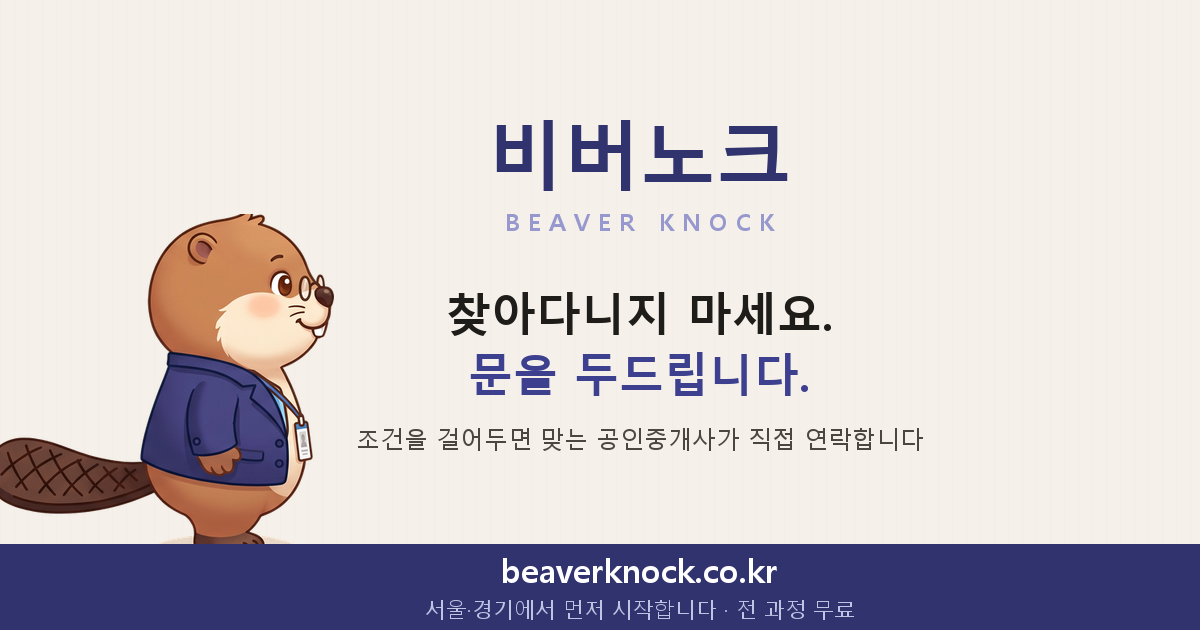
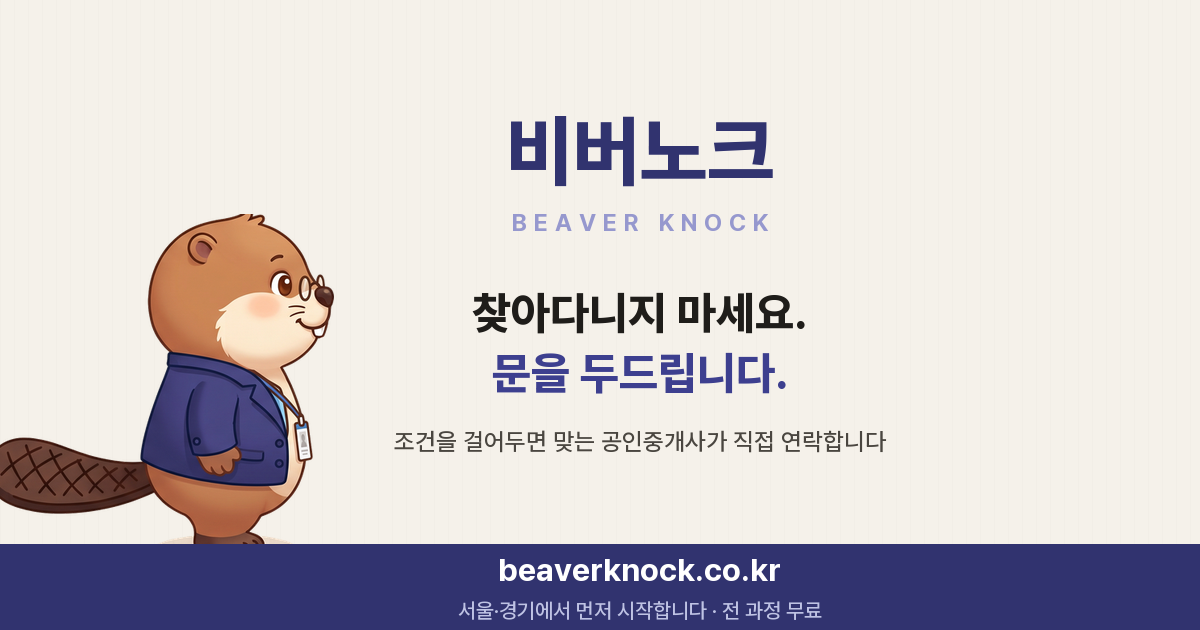
OG 이미지를 Pretendard 로 · 다시 굽는 스크립트를 남긴다
맑은 고딕으로 만들어 뒀던 것을 사이트와 같은 글꼴로 맞췄다.
fonts/pretendard-variable.woff2 는 **변수 폰트**라 PIL 이 그냥은 못 쓴다 -
필요한 굵기(800·700·500)만 고정 인스턴스로 뽑아 쓴다.

tools/build-og.py 를 남긴다. 이 그림은 손으로 다시 만들 일이 또 온다 -
그때 배치를 처음부터 고민하지 않도록 '왜 이 자리인가' 를 스크립트에 적어뒀다:
카톡은 작은 정사각으로 자르므로 핵심은 가운데 630px 안에, 비버는 잘려도 되는
왼쪽 끝에. 비버 그림은 프로토타입 HTML 안의 base64 에서 꺼내 쓰므로
그림 파일을 따로 두지 않는다. 돌리면 정사각 미리보기도 함께 뱉는다.

?v=3 으로 올렸다 - 카톡·슬랙이 캐시를 오래 쥔다.

diff --git a/index.html b/index.html
@@ -10,7 +10,7 @@
 <meta property="og:title" content="비버노크 - 조건을 걸어두면 문을 두드립니다">
 <meta property="og:description" content="원하는 집·가게의 조건을 남기면, 맞는 물건이 있는 공인중개사가 직접 연락합니다. 서울·경기에서 먼저 시작합니다.">
 <meta property="og:url" content="https://beaverknock.co.kr">
-<meta property="og:image" content="https://beaverknock.co.kr/og-image.png?v=2">
+<meta property="og:image" content="https://beaverknock.co.kr/og-image.png?v=3">
 <meta property="og:image:width" content="1200">
 <meta property="og:image:height" content="630">
 <meta property="og:image:alt" content="문을 두드리는 공인중개사 비버리">
@@ -18,7 +18,7 @@
 <meta name="twitter:card" content="summary_large_image">
 <meta name="twitter:title" content="비버노크 - 조건을 걸어두면 문을 두드립니다">
 <meta name="twitter:description" content="원하는 집·가게의 조건을 남기면, 맞는 물건이 있는 공인중개사가 직접 연락합니다.">
-<meta name="twitter:image" content="https://beaverknock.co.kr/og-image.png?v=2">
+<meta name="twitter:image" content="https://beaverknock.co.kr/og-image.png?v=3">
 <title>비버노크 - 조건 맞춤 부동산 매칭</title>
 <link rel="preload" as="font" type="font/woff2" href="fonts/pretendard-variable.woff2" crossorigin>
 <style>@font-face{font-family:"Pretendard Variable";font-weight:45 920;font-style:normal;font-display:swap;src:url(fonts/pretendard-variable.woff2) format("woff2")}</style>
